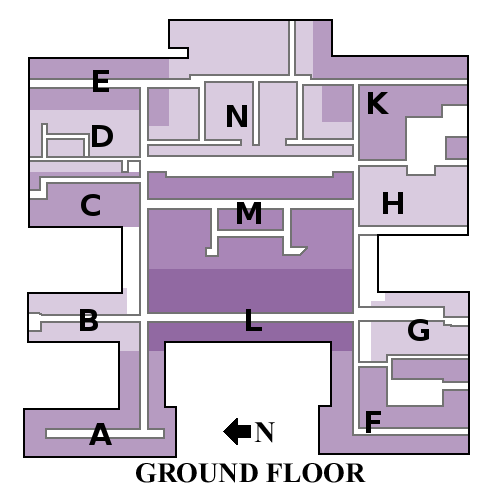
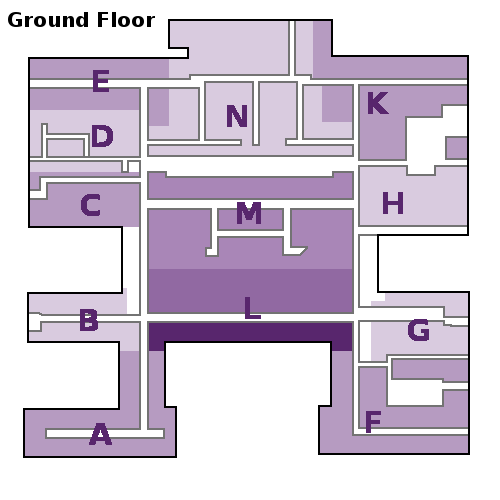
Fixed colors in maps, cleaned up UI, added go back button

diff --git a/main.js b/main.js
@@ -465,15 +465,15 @@ function show_directions(value)
 		{
 			if( directionString == '')
 			{
-				directionString = "Directions to " + directions_list.data_ii[direction_ii].pretty_name + "<br><br>";
+				directionString = "<span style='font-size: 1.5em; font-weight: bold;'>Directions to " + directions_list.data_ii[direction_ii].pretty_name + "</span><br><br>";
 			}
-			directionString += directions_list.data_ii[direction_ii].step_number + '. ' + directions_list.data_ii[direction_ii].step_direction + "<br>";
+			directionString += '<b>' + directions_list.data_ii[direction_ii].step_number + '.</b> ' + directions_list.data_ii[direction_ii].step_direction + "<br><br>";
 		}
 	}
 	display_directions_labels();
 
 	// document.getElementById('search_container').innerHTML = directionString;
-	document.getElementById('search_container').innerHTML = directionString + '<br><br><span onclick="showSearch()">GO BACK</span><br><Br><br>';
+	document.getElementById('search_container').innerHTML = directionString + '<br><span id="home_button" onclick="showSearch()">MAIN MENU</span><br><Br><br>';
 }
 
 function showSearch()
@@ -506,8 +506,8 @@ function display_directions_labels()
 		{
 			new_direction_div = "<div id='directionStep_"+directions_list.data_ii[dir_ii].step_number+"' class='room_label_divs'>"+directions_list.data_ii[dir_ii].step_number+"</div>";
 			direction_label_container.innerHTML = direction_label_container.innerHTML + new_direction_div;
-			document.getElementById('directionStep_'+directions_list.data_ii[dir_ii].step_number).style.top = (parseInt((directions_list.data_ii[dir_ii].turn_coord_y)/41,10)/100*floor_map_offset_height+floor_map_offset_y)+'px';
-			document.getElementById('directionStep_'+directions_list.data_ii[dir_ii].step_number).style.left = (parseInt(directions_list.data_ii[dir_ii].turn_coord_x,10)/100*floor_map_offset_width+floor_map_offset_x-window.document.body.clientWidth*floor)+'px';
+			document.getElementById('directionStep_'+directions_list.data_ii[dir_ii].step_number).style.top = (parseInt((directions_list.data_ii[dir_ii].turn_coord_y)/41,10)/100*floor_map_offset_height+floor_map_offset_y-document.getElementById('directionStep_'+directions_list.data_ii[dir_ii].step_number).offsetHeight/2)+'px';
+			document.getElementById('directionStep_'+directions_list.data_ii[dir_ii].step_number).style.left = (parseInt(directions_list.data_ii[dir_ii].turn_coord_x,10)/100*floor_map_offset_width+floor_map_offset_x-window.document.body.clientWidth*floor-document.getElementById('directionStep_'+directions_list.data_ii[dir_ii].step_number).offsetWidth/2)+'px';
 		}
 	}
 }

diff --git a/main.css b/main.css
@@ -61,15 +61,15 @@ START THREE MAIN SECTIONS
 	background: black;
 }
 
-/*#select_floor
+#select_floor
 {
 
 }
 
 #search_container
 {
-
-}*/
+	margin: 0% 5% 0% 5%;
+}
 
 .selection_div
 {
@@ -104,8 +104,13 @@ END THREE MAIN SECTIONS
 
 #home_button
 {
-	height: 10%;
-	background-color: blue;
+	color: white;
+	font-weight: bold;
+	background: #9169a2;
+	padding-left: 10%;
+	padding-right: 10%;
+	box-shadow: 5px 5px 15px black;
+	border-radius: 10px;
 }
 
 
@@ -125,11 +130,13 @@ END THREE MAIN SECTIONS
 {
 	position: absolute;
 	color: white;
-	background: olive;
+	font-weight: bold;
+	font-size: 1.2em;
+	background: black;
 	/*border-style: solid;*/
 	/*border-color: yellow;*/
 	padding: 5px;
-	box-shadow: 5px 5px 15px black;
+	/*box-shadow: 5px 5px 15px black;*/
 	border-radius: 5px;
 	/* Had to change this to get room labels to show up */
 	z-index: 20;

diff --git a/index.php b/index.php
@@ -23,7 +23,7 @@
 <body id='body_div'>
 
 	<!-- HEADER -->
-	<div id='title'>Welcome to TechView!</div>
+	<div id='title'>TechView</div>
 
 	<div id='test'></div>
 
